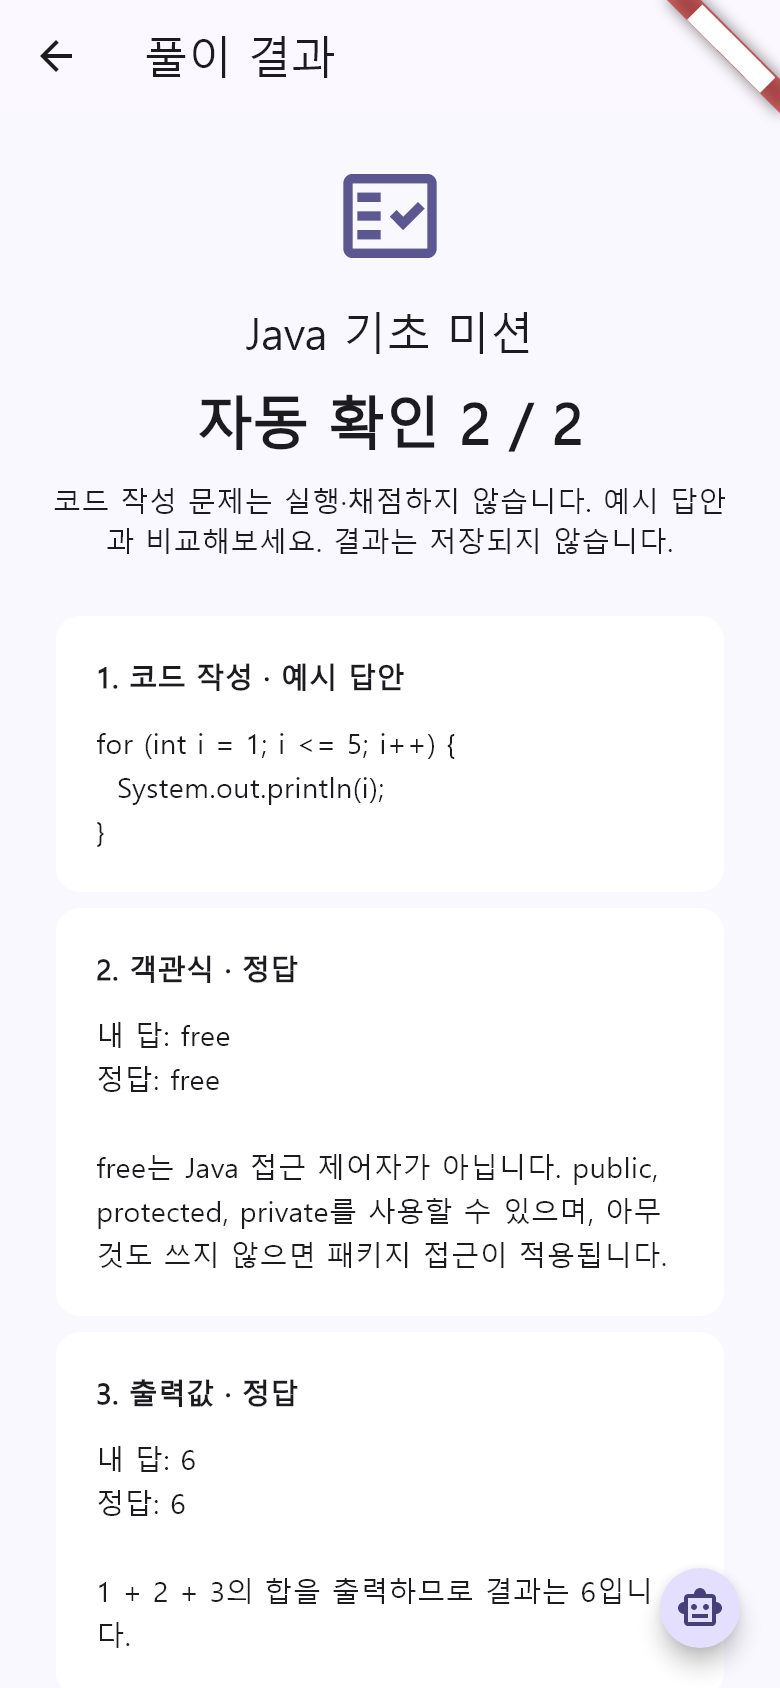
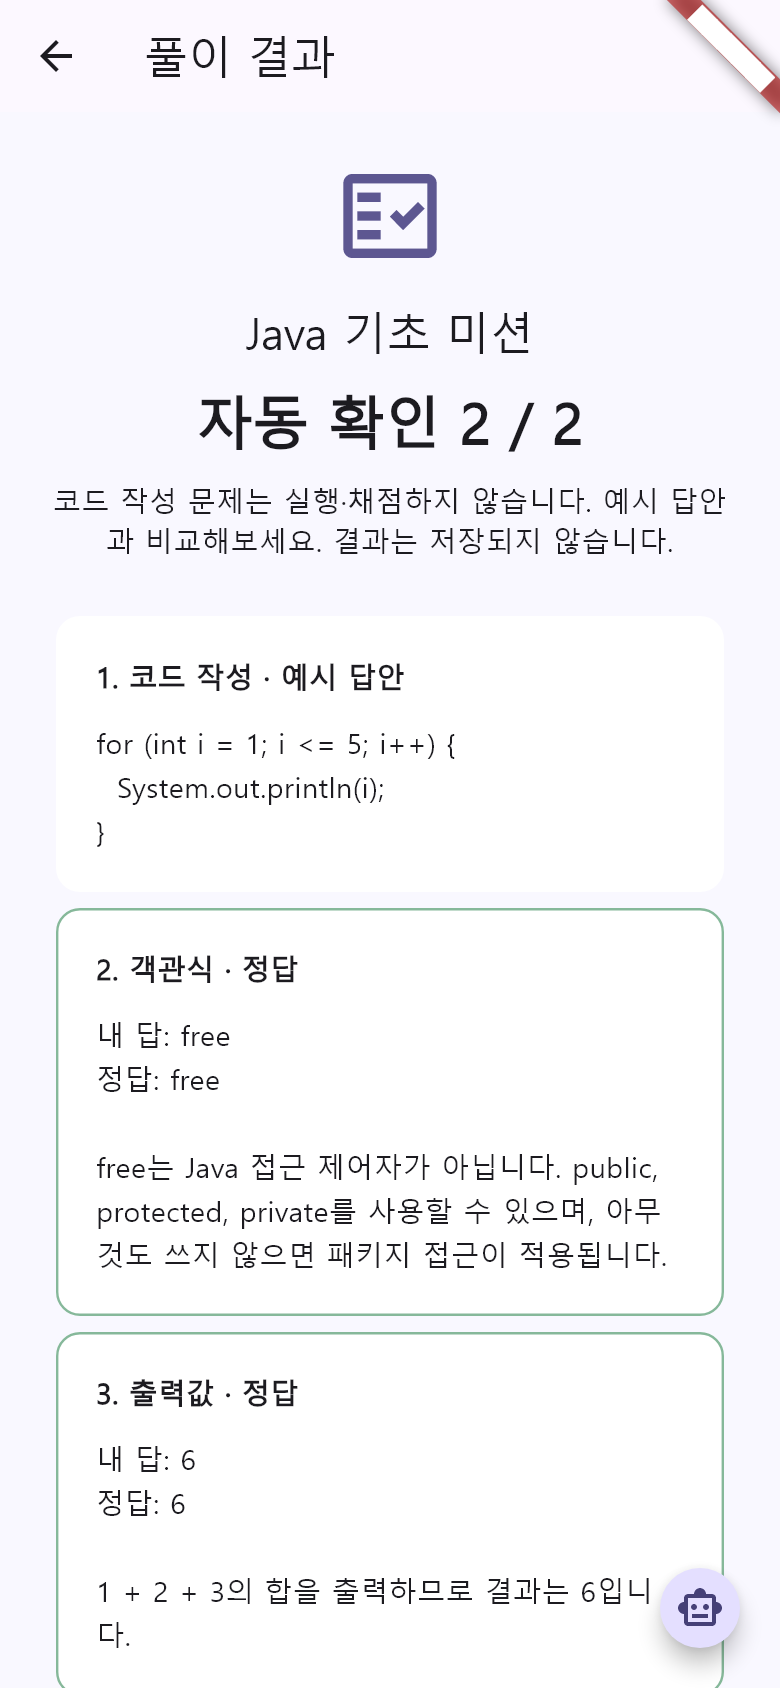
style: 정답 결과 카드에 은은한 초록 테두리 적용

diff --git a/lib/features/problems/presentation/problem_result_screen.dart b/lib/features/problems/presentation/problem_result_screen.dart
@@ -61,10 +61,12 @@ class ProblemResultScreen extends StatelessWidget {
             _answer(
               '2. 객관식 · ${choice == mission.correctIndex ? '정답' : '오답'}',
               '내 답: ${mission.options[choice]}\n정답: ${mission.options[mission.correctIndex]}\n\n${mission.choiceExplanation}',
+              isCorrect: choice == mission.correctIndex,
             ),
             _answer(
               '3. 출력값 · ${output.trim() == mission.outputAnswer ? '정답' : '오답'}',
               '내 답: $output\n정답: ${mission.outputAnswer}\n\n1 + 2 + 3의 합을 출력하므로 결과는 6입니다.',
+              isCorrect: output.trim() == mission.outputAnswer,
             ),
             const SizedBox(height: 16),
             FilledButton(
@@ -77,9 +79,15 @@ class ProblemResultScreen extends StatelessWidget {
     );
   }
 
-  Widget _answer(String title, String body) => Card(
+  Widget _answer(String title, String body, {bool isCorrect = false}) => Card(
     color: Colors.white,
     elevation: 0,
+    shape: RoundedRectangleBorder(
+      borderRadius: BorderRadius.circular(12),
+      side: isCorrect
+          ? const BorderSide(color: Color(0xFF86B89A), width: 1.2)
+          : BorderSide.none,
+    ),
     child: Padding(
       padding: const EdgeInsets.all(20),
       child: Column(
